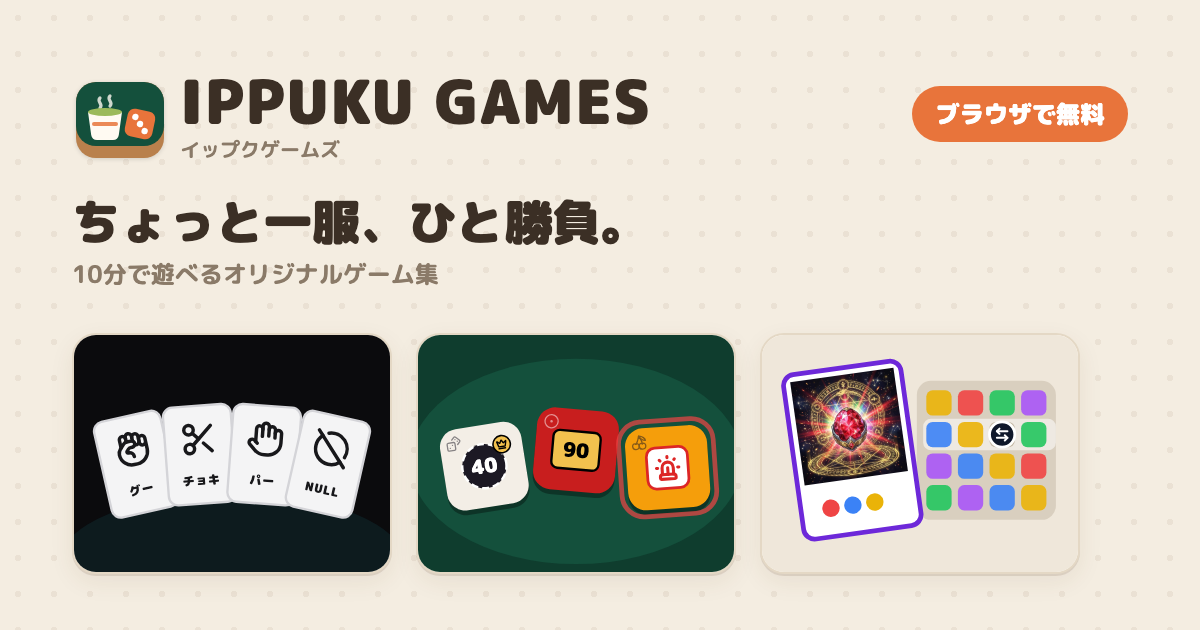
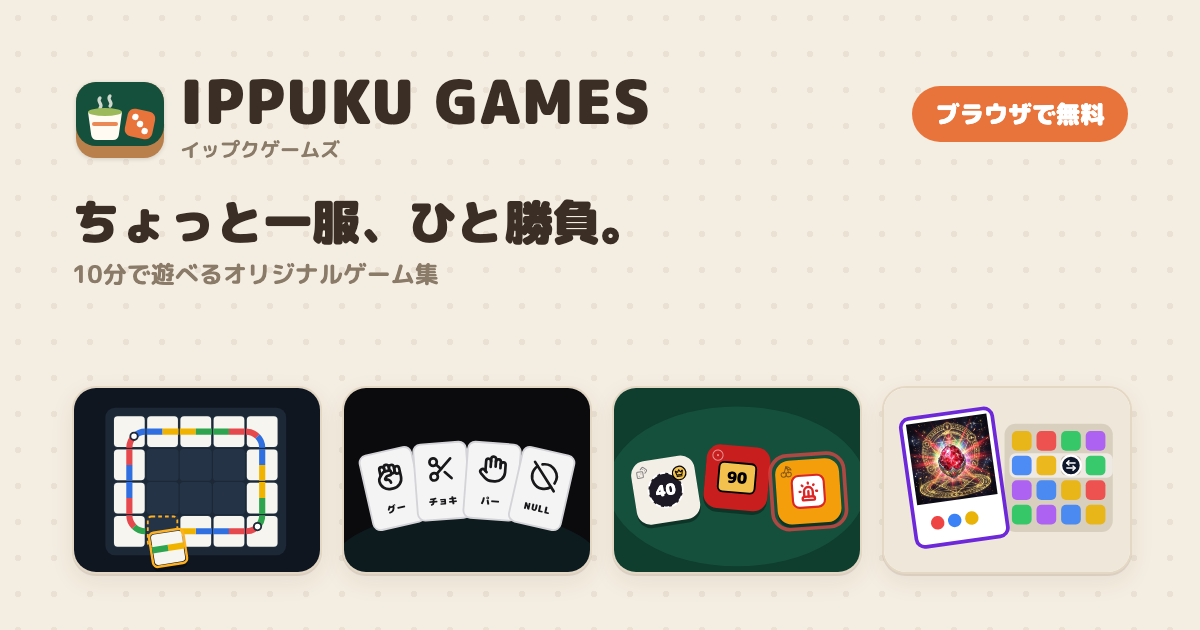
Add LOOP LINE to the game list

Changed region(s): [[0.0617, 0.5127, 0.9558, 0.9349], [0.6783, 0.5127, 0.8633, 0.5429], [0.8942, 0.9048, 0.925, 0.9349]]

diff --git a/src/components/Covers.tsx b/src/components/Covers.tsx
@@ -130,6 +130,95 @@ function NullHandCover() {
   )
 }
 
+/**
+ * ループライン：夜の路線図。白いマスに4色の路線がつながった環状線で、1マスだけ空いていて、そこにはまる札が降りてくる。
+ * 左上と右下の角が駅（白い丸）。線の端の色は隣のマスと必ず同じ。
+ */
+const LOOP_COLORS = ['#e5484d', '#2f6fdf', '#f0b400', '#2ea44f']
+/** 環状線のマス（5×4 の外周を時計回り）。in/out は線が入る辺と出る辺（0上・1右・2下・3左） */
+const LOOP_RING: { x: number; y: number; inS: number; outS: number }[] = (() => {
+  const cells: [number, number][] = []
+  for (let x = 0; x < 5; x++) cells.push([x, 0])
+  for (let y = 1; y < 4; y++) cells.push([4, y])
+  for (let x = 3; x >= 0; x--) cells.push([x, 3])
+  for (let y = 2; y >= 1; y--) cells.push([0, y])
+  const side = (a: [number, number], b: [number, number]) => (b[0] > a[0] ? 1 : b[0] < a[0] ? 3 : b[1] > a[1] ? 2 : 0)
+  return cells.map((c, i) => {
+    const prev = cells[(i - 1 + cells.length) % cells.length]
+    const next = cells[(i + 1) % cells.length]
+    return { x: c[0], y: c[1], inS: side(c, prev), outS: side(c, next) }
+  })
+})()
+const LOOP_GAP = 10
+/** 境目 k の色（隣り合う境目は必ず違う色。14か所で一周する） */
+const loopColor = (k: number) => LOOP_COLORS[(k % LOOP_RING.length) % 4]
+
+function LoopTile({ inS, outS, cIn, cOut, station = false }: { inS: number; outS: number; cIn: string; cOut: string; station?: boolean }) {
+  const mid = [
+    [26, 0],
+    [52, 26],
+    [26, 52],
+    [0, 26],
+  ]
+  const [a, b] = [mid[inS], mid[outS]]
+  let h0: string, h1: string, m: [number, number]
+  if ((inS + outS) % 2 === 0) {
+    h0 = `M${a[0]} ${a[1]} L26 26`
+    h1 = `M26 26 L${b[0]} ${b[1]}`
+    m = [26, 26]
+  } else {
+    const cx = a[0] === 26 ? b[0] : a[0]
+    const cy = a[1] === 26 ? b[1] : a[1]
+    m = [cx + (26 - cx) / Math.SQRT2, cy + (26 - cy) / Math.SQRT2]
+    const ang = (p: number[]) => Math.atan2(p[1] - cy, p[0] - cx)
+    let d = ang(m) - ang(a)
+    while (d <= -Math.PI) d += 2 * Math.PI
+    while (d > Math.PI) d -= 2 * Math.PI
+    const sw = d > 0 ? 1 : 0
+    h0 = `M${a[0]} ${a[1]} A26 26 0 0 ${sw} ${m[0]} ${m[1]}`
+    h1 = `M${m[0]} ${m[1]} A26 26 0 0 ${sw} ${b[0]} ${b[1]}`
+  }
+  return (
+    <g>
+      <rect x="1" y="1" width="50" height="50" rx="6" fill="#f7f5ef" />
+      <path d={h0} stroke={cIn} strokeWidth="10" fill="none" />
+      <path d={h1} stroke={cOut} strokeWidth="10" fill="none" />
+      {station && <circle cx={m[0]} cy={m[1]} r="6" fill="#fff" stroke="#1f2937" strokeWidth="3" />}
+    </g>
+  )
+}
+
+function LoopLineCover() {
+  const t = 54
+  const ox = 200 - (5 * t) / 2
+  const oy = 46
+  const gap = LOOP_RING[LOOP_GAP]
+  return (
+    <Frame bg="#0f1620" label="LOOP LINE のカバー">
+      {/* 路線図の盤 */}
+      <rect x={ox - 14} y={oy - 14} width={5 * t + 24} height={4 * t + 24} rx="16" fill="#1c2836" />
+      {Array.from({ length: 20 }, (_, i) => (
+        <rect key={i} x={ox + (i % 5) * t - 1} y={oy + Math.floor(i / 5) * t - 1} width="52" height="52" rx="6" fill="#243446" />
+      ))}
+      {LOOP_RING.map((c, i) =>
+        i === LOOP_GAP ? (
+          <rect key={i} x={ox + c.x * t + 1} y={oy + c.y * t + 1} width="48" height="48" rx="6" fill="none" stroke="#ffb020" strokeWidth="3" strokeDasharray="6 5" />
+        ) : (
+          <g key={i} transform={`translate(${ox + c.x * t - 1} ${oy + c.y * t - 1})`}>
+            <LoopTile inS={c.inS} outS={c.outS} cIn={loopColor(i)} cOut={loopColor(i + 1)} station={i === 0 || i === 7} />
+          </g>
+        ),
+      )}
+      {/* 空いたマスにはまる札が、手札から降りてくる */}
+      <g transform={`translate(${ox + gap.x * t + 8} ${oy + gap.y * t + 26}) rotate(-9 26 26)`}>
+        <rect x="-3" y="5" width="56" height="56" rx="8" fill="#000" opacity="0.35" />
+        <rect x="-2" y="-2" width="56" height="56" rx="8" fill="none" stroke="#ffb020" strokeWidth="4" />
+        <LoopTile inS={gap.inS} outS={gap.outS} cIn={loopColor(LOOP_GAP)} cOut={loopColor(LOOP_GAP + 1)} />
+      </g>
+    </Frame>
+  )
+}
+
 function DefaultCover({ title }: { title: string }) {
   return (
     <Frame bg="#e8743b" label={`${title} のカバー`}>
@@ -141,6 +230,7 @@ function DefaultCover({ title }: { title: string }) {
 }
 
 const COVERS: Record<string, () => ReactNode> = {
+  LoopLine: LoopLineCover,
   AlcheRoro: AlcheRoroCover,
   BustedUp: BustedUpCover,
   NullHand: NullHandCover,

diff --git a/src/games.ts b/src/games.ts
@@ -1,11 +1,12 @@
 /** ゲーム集に並べるゲームの一覧。新しいゲームはここに足す（カバー絵は components/Covers.tsx） */
 
-export type Genre = 'board' | 'dice' | 'card'
+export type Genre = 'board' | 'dice' | 'card' | 'puzzle'
 
 export const GENRES: Record<Genre, string> = {
   board: 'ボード',
   dice: 'ダイス',
   card: 'カード',
+  puzzle: 'パズル',
 }
 
 export interface Game {
@@ -22,6 +23,8 @@ export interface Game {
   genre: Genre
   minutes: string
   players: string
+  /** 詳細の3つ目の欄（CPUの強さなど） */
+  extra: { label: string; value: string }
   /** 追加した日（新着の印に使う） */
   added: string
   /** 開発中に開く、そのゲームの開発サーバーのポート */
@@ -29,6 +32,24 @@ export interface Game {
 }
 
 export const GAMES: Game[] = [
+  {
+    id: 'LoopLine',
+    title: 'LOOP LINE',
+    kana: 'ループライン',
+    catch: '路線をつないで、環状線を。',
+    description: '色の合う線路札をつないで、2つの駅を通る環状線を1本完成させる1人用パズル。手札は5枚、お助けカードはどれも1回きり。どこから伸ばし、どこで合流させるか。',
+    rules: [
+      '手札から線路札を1枚選び、のびている線の先に置く',
+      '隣り合う線は同じ色でつなぐ。盤の外や線のない辺には突き当てられない',
+      '2つの駅を両方通る輪ができたらクリア。置ける札がなくなったら終わり',
+    ],
+    genre: 'puzzle',
+    minutes: '5分前後',
+    players: '1人用',
+    extra: { label: 'お助け', value: '3種類・各1回' },
+    added: '2026-10-23',
+    devPort: 5183,
+  },
   {
     id: 'NullHand',
     title: 'NULL-HAND',
@@ -43,6 +64,7 @@ export const GAMES: Game[] = [
     genre: 'card',
     minutes: '3〜5分',
     players: 'CPUと1対1',
+    extra: { label: 'CPU', value: '3段階の強さ' },
     added: '2026-10-20',
     devPort: 5181,
   },
@@ -60,6 +82,7 @@ export const GAMES: Game[] = [
     genre: 'dice',
     minutes: '10分前後',
     players: 'あなた＋CPU2〜3人',
+    extra: { label: 'CPU', value: '3段階の強さ' },
     added: '2026-10-20',
     devPort: 5180,
   },
@@ -77,6 +100,7 @@ export const GAMES: Game[] = [
     genre: 'board',
     minutes: '10分前後',
     players: 'CPUと1対1',
+    extra: { label: 'CPU', value: '3段階の強さ' },
     added: '2026-10-19',
     devPort: 5179,
   },

diff --git a/public/privacy/index.html b/public/privacy/index.html
@@ -28,7 +28,7 @@
     <main>
       <p><a href="/">← IPPUKU GAMES</a></p>
       <h1>プライバシーポリシー</h1>
-      <p class="muted">最終更新：2026年10月21日</p>
+      <p class="muted">最終更新：2026年10月23日</p>
 
       <div class="box">
         <p>IPPUKU GAMES（以下「本サイト」）は、ブラウザだけで遊べるゲーム集です。会員登録や課金はなく、名前・メールアドレスなどの個人情報を入力していただくことはありません。</p>
@@ -42,6 +42,7 @@
         <tr><td>CPUの強さ・後手ボーナス（<code>alcheroro.level</code> ほか）</td><td>AlcheRoro</td></tr>
         <tr><td>CPUの人数・強さなどの設定（<code>bustedup.settings</code>）</td><td>BUSTED UP!</td></tr>
         <tr><td>CPUの強さ（<code>nullhand.settings</code>）</td><td>NULL-HAND</td></tr>
+        <tr><td>成績（プレイ数・勝ち数・最少手数・連勝。<code>loopline.stats</code>）</td><td>LOOP LINE</td></tr>
       </table>
       <p>また、ホーム画面に追加したときにオフラインでも遊べるよう、ページのファイルをブラウザに保存（キャッシュ）します。</p>
 

diff --git a/src/og/Render.tsx b/src/og/Render.tsx
@@ -40,9 +40,9 @@ function HubOg() {
         <p className="mt-8 text-5xl font-black">{SITE_CATCH}</p>
         <p className="mt-3 text-2xl font-bold text-[var(--muted)]">{SITE_SUB}</p>
       </div>
-      <div className="absolute bottom-[56px] left-[72px] flex gap-6">
+      <div className="absolute bottom-[56px] left-[72px] flex gap-5">
         {GAMES.map((g) => (
-          <div key={g.id} className="w-[320px] overflow-hidden rounded-3xl border-2 border-[var(--border)] bg-[var(--panel)] shadow-[var(--shadow)]">
+          <div key={g.id} className="w-[250px] overflow-hidden rounded-3xl border-2 border-[var(--border)] bg-[var(--panel)] shadow-[var(--shadow)]">
             <div className="aspect-[4/3]">
               <Cover id={g.id} title={g.title} />
             </div>

diff --git a/src/App.tsx b/src/App.tsx
@@ -183,7 +183,7 @@ function GameSheet({ game, onClose, onPlay }: { game: Game | null; onClose: () =
               <dl className="mt-4 grid grid-cols-3 gap-2 text-center">
                 <Info icon={<Clock size={16} />} label="時間" value={game.minutes} />
                 <Info icon={<Users size={16} />} label="人数" value={game.players} />
-                <Info icon={<Sparkles size={16} />} label="CPU" value="3段階の強さ" />
+                <Info icon={<Sparkles size={16} />} label={game.extra.label} value={game.extra.value} />
               </dl>
 
               <h3 className="mt-5 text-sm font-black">あそびかた</h3>

diff --git a/README.md b/README.md
@@ -3,7 +3,7 @@
 ちょっと一服、ひと勝負。10分以内で遊べるオリジナルのテーブルゲームを集めた、ゲーム集の入口ページ。
 
 - 本番は GitHub のユーザーサイト（`https://suzukicecil.github.io/`）の直下に置く想定。各ゲームは同じドメインの `/<リポジトリ名>/` にある。
-- 開発中（`npm run dev`、ポート5182）は、各ゲームの開発サーバーを開く（AlcheRoro 5179・BustedUp 5180・NullHand 5181。`src/games.ts` の `devPort`）。各ゲームの「ゲーム一覧へ」は開発中は `http://localhost:5182/` に戻る。
+- 開発中（`npm run dev`、ポート5182）は、各ゲームの開発サーバーを開く（AlcheRoro 5179・BustedUp 5180・NullHand 5181・LoopLine 5183。`src/games.ts` の `devPort`）。各ゲームの「ゲーム一覧へ」は開発中は `http://localhost:5182/` に戻る。
 
 ## 起動
 
